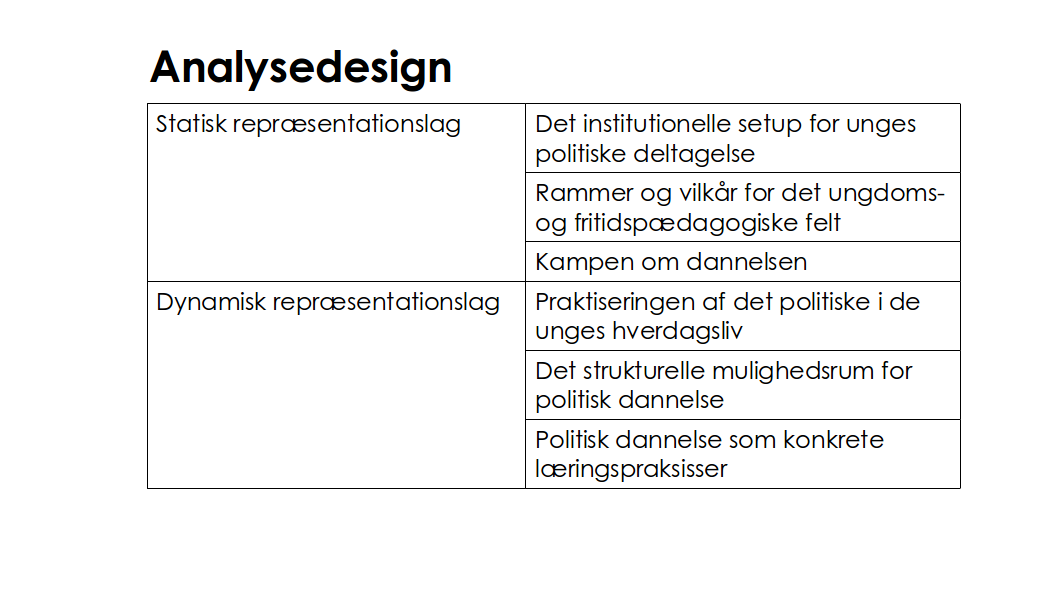
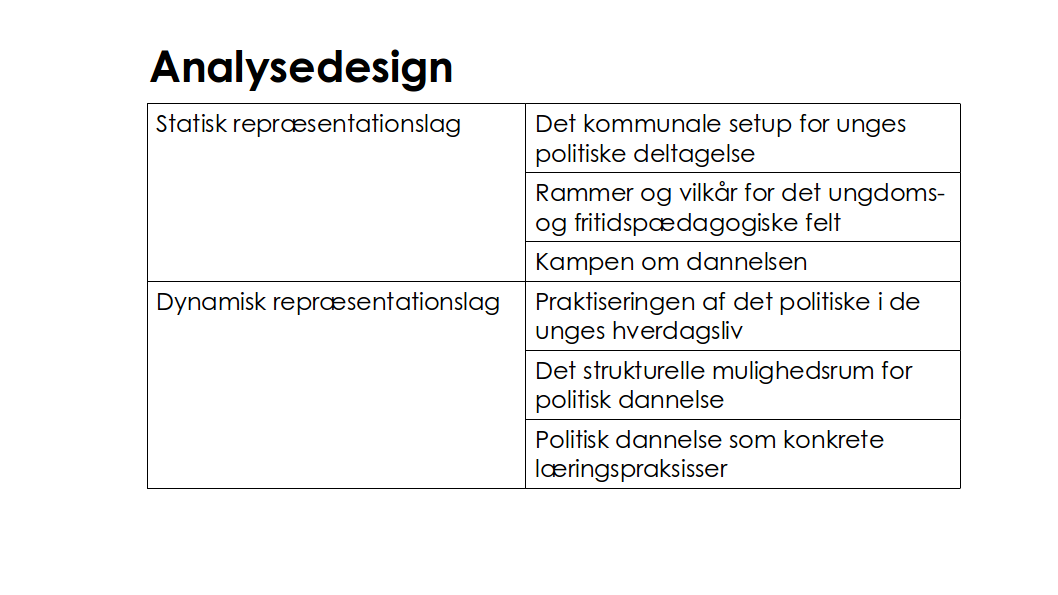
Rev. aktionsforskning

Changed region(s): [[0.5302, 0.1815, 0.8733, 0.242], [0.2807, 0.0908, 0.4367, 0.1513], [0.2183, 0.0908, 0.2495, 0.1513]]

diff --git a/aktionsforskning.html b/aktionsforskning.html
@@ -1,0 +1,234 @@
+<!DOCTYPE html>
+<html lang="da">
+<head>
+<meta charset="utf-8"/>
+<title>Politisk dannelse og aktionsforskning</title>
+<meta name="author" content="(Jakob Sejrup Villadsen)"/>
+<style type="text/css">
+.underline { text-decoration: underline; }
+</style>
+<link rel="stylesheet" href="./css/reveal.css"/>
+
+<link rel="stylesheet" href="./css/theme/white.css" id="theme"/>
+
+<link rel="stylesheet" href="./css/custom.css"/>
+
+<!-- If the query includes 'print-pdf', include the PDF print sheet -->
+<script>
+    if( window.location.search.match( /print-pdf/gi ) ) {
+        var link = document.createElement( 'link' );
+        link.rel = 'stylesheet';
+        link.type = 'text/css';
+        link.href = './css/print/pdf.css';
+        document.getElementsByTagName( 'head' )[0].appendChild( link );
+    }
+</script>
+</head>
+<body>
+<div class="reveal">
+<div class="slides">
+<section id="sec-title-slide"><h1>Politisk dannelse og aktionsforskning</h1><h2>Jakob Sejrup Villadsen</h2>
+</section>
+<section id="table-of-contents">
+<div id="table-of-contents">
+<h2>Indhold</h2>
+<div id="text-table-of-contents">
+<ul>
+<li><a href="#/slide-orgc85afc8">Baggrunden for projektet</a></li>
+<li><a href="#/slide-org80eafd5">Skitse til analysestrategi</a></li>
+<li><a href="#/slide-orgacbc89c">Samarbejdet med feltet</a></li>
+</ul>
+</div>
+</div>
+</section>
+<section>
+<section id="slide-orgc85afc8">
+<h2 id="orgc85afc8">Baggrunden for projektet</h2>
+<div class="outline-text-2" id="text-orgc85afc8">
+</div>
+</section>
+<section id="slide-orgeca2eb3">
+<h3 id="orgeca2eb3"></h3>
+
+<div class="figure">
+<p><img src="./images/vision-side001.jpeg" alt="vision-side001.jpeg" width="640px" class="custom" />
+</p>
+</div>
+<aside class="notes">
+<ul>
+<li>Holbæk i Fællesskab er en vision, hvor den kommunale velfærd er et fælles anliggende for civilsamfundet, erhvervslivet og den kommunale organisation - hvor vi alle har et ansvar. Ikke kun politikere og medarbejdere. Kommunen er et fællesskab, ikke kun en myndighed eller et serviceorgan.</li>
+<li>Nogle kalder dette kommune 3.0 og ny velfærd. Jeg vil sige, at det er at søge tilbage til den oprindelige betydning af kommune - som fællesskab.</li>
+<li>Det er interessant, at i grundloven er paragraffen om kommuner placeret i kapitlet med borgernes frihedsrettigheder, og i det første udkast til grundloven var det kommunale selvstyre formuleret som en politisk rettighed - borgerne er berettigede til selv at styre deres kommunale anliggender.</li>
+<li>Opgaven med politisk dannelse er implicit formuleret i byrådets vision om at videreudvikle kommunen som et stærkt, demokratisk fællesskab, hvor flere borgere er med til at løse kommunens udfordringer. For forudsætningen for denne vision er politisk dannelse, da frøene til stærke, demokratiske fællesskaber primært må lægges blandt de fremtidige generationer af borgere.</li>
+
+</ul>
+
+</aside>
+</section>
+<section id="slide-org8e7d561" data-background="images/hverdagsliv.jpeg">
+<h3 id="org8e7d561"></h3>
+</section>
+<section id="slide-org8673297">
+<h3 id="org8673297"></h3>
+
+<div class="figure">
+<p><img src="./images/erhvervsphd.png" alt="erhvervsphd.png" width="1000px" class="custom" />
+</p>
+</div>
+
+</section>
+</section>
+<section>
+<section id="slide-org80eafd5">
+<h2 id="org80eafd5">Skitse til analysestrategi</h2>
+<div class="outline-text-2" id="text-org80eafd5">
+</div>
+</section>
+<section id="slide-org441c146">
+<h3 id="org441c146"></h3>
+
+<div class="figure">
+<p><img src="./images/kommunekontekst.png" alt="kommunekontekst.png" width="1058px" class="custom" />
+</p>
+</div>
+</section>
+<section id="slide-org5866393">
+<h3 id="org5866393">Forskningsspørgsmål</h3>
+<p>
+Hvorvidt kan aktørerne i det ungdoms- og fritidspædagogiske felt facilitere politisk dannelse blandt unge?
+</p>
+
+<aside class="notes">
+<ul>
+<li>'Facilitere' skal i det overordnede spørgsmål forstås som en aktivitet, hvor nogle gør noget svært muligt for andre – hvor noget åbnes op og hjælpes på vej.</li>
+<li>Projektet vil undersøge, hvordan det ungdoms- og fritidspædagogiske felts potentiale i relation til politisk dannelse kan udfoldes. Hvad kan feltet gøre for at udbrede politisk dannelse?</li>
+<li>Spørgsmålet er begrundet i et behov for både didaktiske og institutionelle anbefalinger, hvor det første behov handler om udviklingen og kvalificeringen af konkrete demokrati-læringsprocesser, og det andet behov handler om, hvordan kommunerne bredt set kan forbedre de demokratiske engagementsmuligheder for unge.</li>
+<li>Projektet vil forsøge at skabe demokratiske forandringer ved at være med til at afprøve og udvikle demokratiske arenaer og processer.</li>
+
+</ul>
+
+</aside>
+</section>
+<section id="slide-org8cdd5db">
+<h3 id="org8cdd5db"></h3>
+
+<div class="figure">
+<p><img src="./images/analysedesign.png" alt="analysedesign.png" width="1200px" class="custom" />
+</p>
+</div>
+
+<aside class="notes">
+<ol>
+<li>Hvordan udfoldes og praktiseres det politiske i de unges hverdagsliv?</li>
+<li>Hvilke strukturelle drivkræfter og barrierer er der for politisk dannelse?</li>
+<li>Hvordan kan et politisk dannelsesprojekt udfolde sig i konkrete læringspraksisser?</li>
+<li>For det første er der behov for svar på, hvor meget det politiske fylder i hverdagslivet for de unge. Hvor er det politiske, hvor er det ikke, og hvorfor forholder det sig sådan?</li>
+<li>For det andet er der er et spørgsmål om hvilke strukturelle drivkræfter og barrierer, der er for politisk dannelse.</li>
+<li>For det trejde handler det om at komme med nogle konkrete bud på, hvordan politisk dannelse kan udfolde sig.</li>
+<li>Metoder til 1: Kvalitativ kortlægning af det politiske i de unges hverdagsliv - udvalgte unge, der interviewes med udgangspunkt i foto-dagbog</li>
+<li>Metoder til 2: Dokument-analyse og historie-værksted. Hvad er policy-konteksten, og hvad har været på spil i de historiske og politiske konflikter om dannelsesprojekter. Inddrage erfaringer fra andre kommuner.</li>
+<li>Metoder til 3: Følge dannelsespraksisser i Holbæk Kommune og lave eksperimenter</li>
+
+</ol>
+
+</aside>
+
+</section>
+</section>
+<section>
+<section id="slide-orgacbc89c">
+<h2 id="orgacbc89c">Samarbejdet med feltet</h2>
+<div class="outline-text-2" id="text-orgacbc89c">
+</div>
+</section>
+<section id="slide-org5c661d9">
+<h3 id="org5c661d9"></h3>
+
+<div class="figure">
+<p><img src="./images/brobygger.png" alt="brobygger.png" width="1200px" class="custom" />
+</p>
+</div>
+
+<aside class="notes">
+<ul>
+<li>Hvad kendetegner det ungdoms- og fritidspædagogiske felt, og hvorfor er det interessant?
+<ul>
+<li>Mulighed for at bygge bro mellem 'kommunen' og de unges hverdagsliv, en brobygger ml. det almene og specialiserede</li>
+<li>Repræsentant for et bredere dannelsesideal som supplement til konkurrencestatens dannelsesideal, har en demokratisk og politisk facilitator-rolle</li>
+<li>Samskabelse i praksis før samskabelsesdiskursen</li>
+<li>En åben ramme, præget af kan-opgaver</li>
+<li>Et broget felt, forskellige uddannelses- og arbejsmæssige baggrunde</li>
+<li>Et selvbevidst og autonomt felt</li>
+<li>Et praktisk felt, optaget af store events og praktikaliteter, refleksionen måske lidt glemt</li>
+
+</ul></li>
+
+</ul>
+
+</aside>
+</section>
+<section id="slide-org11dbc28" data-background="images/ungholbaek.jpeg">
+<h3 id="org11dbc28"></h3>
+<aside class="notes">
+<ul>
+<li>Muligheder for professionsudvikling
+<ul>
+<li>Kompetenceudvikling</li>
+<li>Refleksion over praksis</li>
+<li>Udvikling af praksis</li>
+
+</ul></li>
+<li>Hvordan kan jeg som forsker understøtte en professionsudvikling? Hvad er der behov for?
+<ul>
+<li>Kompetenceudvikling: Facilitering, arbejde i en politisk organisation, projektledelse</li>
+<li>Refleksion over praksis: Hvad vil vi med dannelsen og hvorfor? Hvad er vores overordnede greb på deltagelse og dannelse?</li>
+
+</ul></li>
+<li>Udvikling af praksis - korrektiv tilpasning, overførende nyanvendelse, eksperimentel udvikling, radikal udforskning</li>
+<li>Udfordring - hvordan får jeg feltet med det lange blik på? Risiko for for meget dag-til-dag, løsning af konkrete opgaver. Jeg har inviteret mig selv - der er ikke kommet en bestilling fra ledelsen. Hvordan bliver aktørerne i feltet medforskere?</li>
+<li>Hvordan kan der arbejdes med professionsudvikling relateret til Holbæk i Fællesskab og En Stærk Medspiller under de nuværende vilkår? Kommune 1.0, 2.0 og 3.0 på én gang - hvad kræver det af medarbejderne? Bottom up-strategier frem for top down-strategier.</li>
+
+</ul>
+
+</aside>
+</section>
+</section>
+</div>
+</div>
+<script src="./lib/js/head.min.js"></script>
+<script src="./js/reveal.js"></script>
+
+<script>
+// Full list of configuration options available here:
+// https://github.com/hakimel/reveal.js#configuration
+Reveal.initialize({
+
+controls: true,
+progress: true,
+history: false,
+center: true,
+slideNumber: 'c',
+rollingLinks: false,
+keyboard: true,
+overview: true,
+
+theme: Reveal.getQueryHash().theme, // available themes are in /css/theme
+transition: Reveal.getQueryHash().transition || 'linear', // default/cube/page/concave/zoom/linear/fade/none
+transitionSpeed: 'default',
+multiplex: {
+    secret: '', // null if client
+    id: '', // id, obtained from socket.io server
+    url: '' // Location of socket.io server
+},
+
+// Optional libraries used to extend on reveal.js
+dependencies: [
+ { src: './lib/js/classList.js', condition: function() { return !document.body.classList; } },
+ { src: './plugin/markdown/marked.js', condition: function() { return !!document.querySelector( '[data-markdown]' ); } },
+ { src: './plugin/markdown/markdown.js', condition: function() { return !!document.querySelector( '[data-markdown]' ); } },
+ { src: './plugin/zoom-js/zoom.js', async: true, condition: function() { return !!document.body.classList; } },
+ { src: './plugin/notes/notes.js', async: true, condition: function() { return !!document.body.classList; } }]
+});
+</script>
+</body>
+</html>
